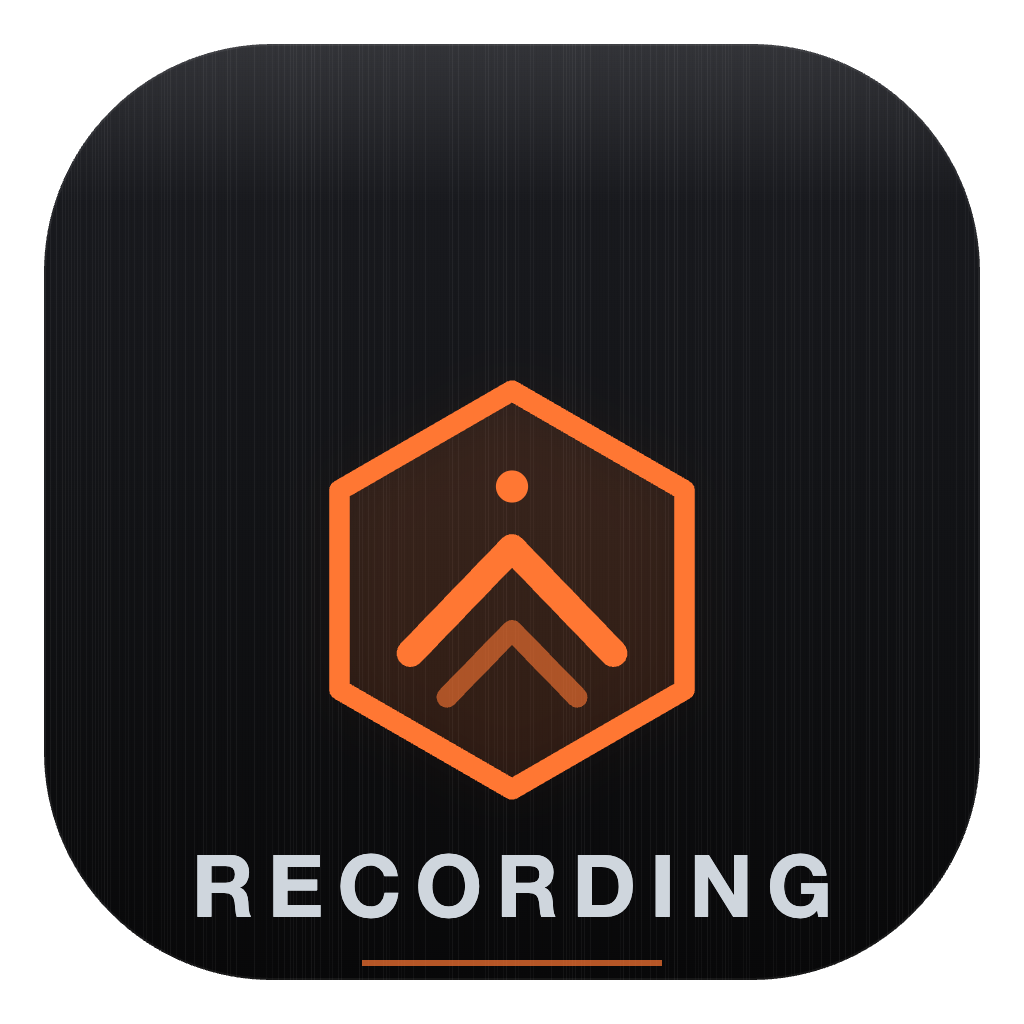
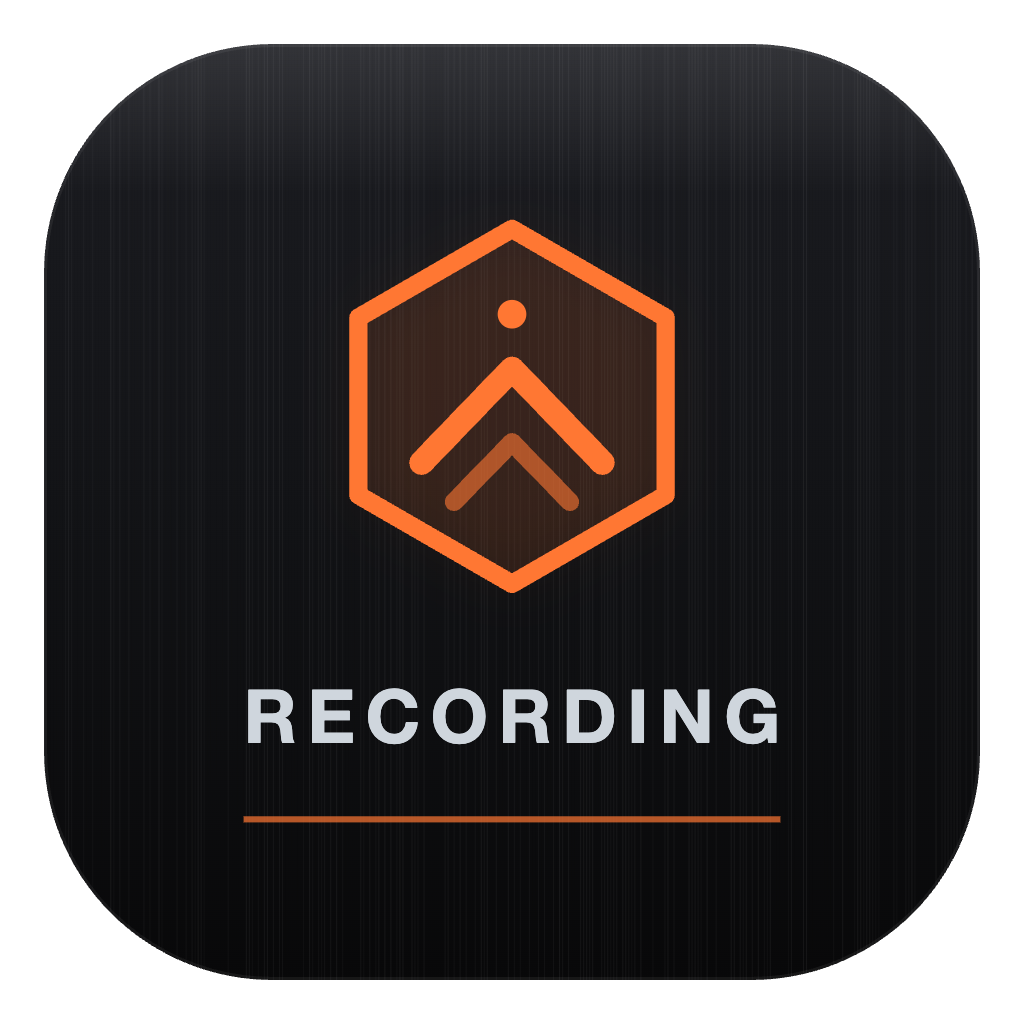
Mockup parity: incandescent recording timer + master divider + spec reconcile
Compared the running app against the three Heated Steel mockups (clock,
toolbar, mixer). The toolbar (forge-mark + ZYNFORGE/RECORDING wordmark, neutral
pills with only LOCK/VSC coloured), the clock layout + stat grid, and the master
strip already match -- verified live + in code. Two concrete fixes:

- BigClockPanel: the recording timer was meterWhiteHot (near-white cream); the
  mockup shows INCANDESCENT red-orange digits. Now drawn in accentRecord with a
  soft meterHot bloom behind (a larger semi-transparent pass) so it reads as
  glowing worked metal. Idle (green) / Playing (green) unchanged.
- MainComponentLayout: 1px brand::edge divider painted in the gap between the
  scrolling strip wall and the fixed master strip (mock parity §4).

Also reconciled IMPLEMENTATION_SPEC §2/§4/§5 status (the edited/ drop already
landed corner brackets, the 8px strip gap, the un-hidden title + neutral pills;
the spec's blind 🔶 markers were stale). Button-set slimming left as a product
decision, not done blind.

design audit CLEAN, 244/0 tests.

Changed region(s): [[0.1875, 0.2188, 0.8125, 0.9062], [0.3438, 0.9375, 0.6562, 0.9688]]

diff --git a/Source/UI/BigClockPanel.cpp b/Source/UI/BigClockPanel.cpp
@@ -284,16 +284,26 @@ namespace zynforge
                      tpHot ? brand::accentRecord : brand::textPrimary);
         }
 
-        // Centre: huge timer
-        g.setColour (mode == Mode::Recording ? brand::meterWhiteHot
-                   : mode == Mode::Playing   ? brand::accentPlay
-                                             : brand::accentStatus);
-        // Tabular numerals -- the timer string can't shift width as
-        // seconds tick. Hero scale (h_hero=44) pinned via brand::type
-        // so the timer's visual weight is system-managed, not bespoke.
-        g.setFont (brand::type::mono (juce::jmin (inner.getHeight() * 0.95f,
-                                                  brand::type::h_hero + 12.0f),
-                                      true));
+        // Centre: huge timer. Tabular numerals -- the timer string can't
+        // shift width as seconds tick. Hero scale (h_hero=44) pinned via
+        // brand::type so the timer's weight is system-managed, not bespoke.
+        const float timerPt = juce::jmin (inner.getHeight() * 0.95f,
+                                          brand::type::h_hero + 12.0f);
+        const auto timerCol = mode == Mode::Recording ? brand::accentRecord
+                            : mode == Mode::Playing   ? brand::accentPlay
+                                                      : brand::accentStatus;
+        // Recording: the mockup's timer reads as INCANDESCENT red-orange,
+        // not white. Lay a soft hot-orange bloom behind the digits (a larger
+        // semi-transparent pass) so they glow like worked metal, then stamp
+        // the crisp red-orange face on top.
+        if (mode == Mode::Recording)
+        {
+            g.setColour (brand::meterHot.withAlpha (0.32f));
+            g.setFont (brand::type::mono (timerPt * 1.06f, true));
+            g.drawText (elapsedText, inner, juce::Justification::centred, false);
+        }
+        g.setColour (timerCol);
+        g.setFont (brand::type::mono (timerPt, true));
         g.drawText (elapsedText, inner, juce::Justification::centred, false);
     }
 }

diff --git a/Source/UI/MainComponentLayout.cpp b/Source/UI/MainComponentLayout.cpp
@@ -112,6 +112,17 @@ void MainComponent::paint (juce::Graphics& g)
 
     // (The MIXER empty state is now the reusable mixerPlaceholder overlay,
     // shown/hidden by updateMixerPlaceholder() -- no painted hint here.)
+
+    // Master separator (mock parity §4): a 1px edge rule in the gap between
+    // the scrolling strip wall and the fixed master strip, so the master
+    // reads as a distinct fixed pane and not just another carded strip.
+    if (currentView == View::Mix && masterStrip != nullptr && masterStrip->isVisible())
+    {
+        const int mx = masterStrip->getX() - brand::space::md / 2;   // mid-gap
+        g.setColour (brand::edge);
+        g.drawVerticalLine (mx, (float) masterStrip->getY(),
+                                (float) masterStrip->getBottom());
+    }
 }
 
 void MainComponent::resized()

diff --git a/Source/Theme/IMPLEMENTATION_SPEC.md b/Source/Theme/IMPLEMENTATION_SPEC.md
@@ -62,8 +62,8 @@ are positioned (the mixer viewport), not the strip itself — see §4.
 | Centre | timer **JetBrains Mono Bold 52px** |
 | Right | 7-row stat grid, label Inter 10px tertiary / value mono bold 10.5px secondary, 240px wide |
 
-Corner brackets are the one piece not yet in your build — add four 2px
-`brandOrange` L-strokes at the panel corners (the target shows the exact inset).
+✅ **DONE** (2026-06-14) — corner brackets are in `BigClockPanel::paint` (top-left +
+top-right 2px `brandOrange` L-strokes, ~20px, inside the inset orange frame).
 
 ---
 
@@ -77,22 +77,37 @@ Corner brackets are the one piece not yet in your build — add four 2px
 
 ---
 
-## 4. Mixer layout / strip gap — `MainComponentLayout.cpp` 🔶⚠
+## 4. Mixer layout / strip gap — `MainComponentLayout.cpp` ✅ DONE
 
-The target shows **carded strips with an 8px gap**. Whether your build shows the
-gap depends on how strips are laid out in the mixer viewport. Find the strip
-loop in `resized()` (the section after the toolbar rows) and ensure each strip
-gets `width = stripW` with an **8px gap** between (`r.removeFromLeft(8)` between
-strips), and the master separated by a 1px `edge` divider + 8px.
-Strip width per preset (S/M/L/XS) stays as-is; only the **gap** + the master
-divider need to match. *I couldn't fully read this loop blind — send me the
-strip-layout block of `resized()` and I'll write the exact edit.*
+The strip loop in `resized()` uses `const int gap = 8` and lays strips at
+`x += stripW + gap`, with the strip-width formula reserving the gaps
+(`(pageW - (perPage-1)*gap)/perPage`). The fixed master strip now also gets a
+**1px `brand::edge` divider** painted in its left gap (`MainComponent::paint`,
+mock-parity §4, 2026-06-14). Strip width per preset (S/M/L/XS) unchanged.
 
 ---
 
-## 5. Toolbar layout + button colours — `MainComponentLayout.cpp` + `MainComponent` 🔶⚠
+## 5. Toolbar layout + button colours — `MainComponentLayout.cpp` + `MainComponent` ✅ mostly DONE
 
-This is the biggest parity gap and the riskiest blind. The target toolbar is:
+**Resolved (2026-06-14, with the real files in view):**
+- **Title un-hidden** — `resized()` gives row1 a 248px slot and `paint()` draws the
+  forge-mark badge + two-tone `ZYNFORGE`/`RECORDING` wordmark in it. ✅
+- **Neutral pills** — every header button uses `brand::bgElevated` backgrounds;
+  only **LOCK** text (`accentRecord`) and **VSC** text (`accentVS`) carry colour,
+  exactly the mock. ✅
+- **DEVICE / WAV24 / PATCH / VSC / LOCK** are all surfaced. ✅
+
+**Open — a PRODUCT decision, not a parity bug:** the mock hides
+METERS/BACKUP/S/M/L/MIXER/EDIT/VCA to a slimmer set. Those are *functional*
+controls, so removing/overflowing them is a UX call, deliberately **not** done
+blind. Decide if you want them moved to a `…` overflow; until then they stay
+visible (full function > pixel-exact toolbar).
+
+---
+
+### (original blind notes, kept for reference)
+
+The target toolbar is:
 
 ```
 [forge-mark] ZYNFORGE RECORDING        … DEVICE  WAV 24  PATCH  •VSC   LOCK

diff --git a/Source/Theme/README-icon.md b/Source/Theme/README-icon.md
@@ -1,0 +1,31 @@
+# ZynForge Recording — app icon
+
+Forge-mark glyph with **RECORDING** beneath it, on a forged-steel squircle.
+
+## Easiest (matches your current CMake) ✅
+Your `CMakeLists.txt` already has:
+```
+ICON_BIG "${CMAKE_CURRENT_SOURCE_DIR}/Source/Theme/AppIcon.png"
+```
+JUCE builds the `.icns` from that PNG. So just **overwrite it**:
+```
+cp brand/app-icon-1024.png  Source/Theme/AppIcon.png
+cmake --build build --config Debug --clean-first
+```
+Done — the new icon shows in the dock / Finder. (JUCE downscales the one PNG for
+every size; the hex reads fine small, the RECORDING text softens to a texture at
+16–32 px, which is normal for wordmark icons.)
+
+## Crisp small sizes (optional, premium)
+For pin-sharp dock icons with a **glyph-only** small variant (no blurry text at
+16–32 px), use the prebuilt iconset instead of JUCE's auto-generation:
+```
+iconutil -c icns brand/ZynForgeRecording.iconset -o ZynForgeRecording.icns
+```
+Then drop `ICON_BIG` from `juce_add_gui_app` and reference the `.icns` in your
+bundle (`Info.plist` `CFBundleIconFile`, or copy it into `Resources/`). The
+iconset already pairs glyph-only art ≤64 px with the full lockup ≥128 px.
+
+## Files
+- `app-icon-1024.png` — 1024² master (forge-mark + RECORDING).
+- `ZynForgeRecording.iconset/` — full macOS iconset, glyph-only smalls + lockup larges.
